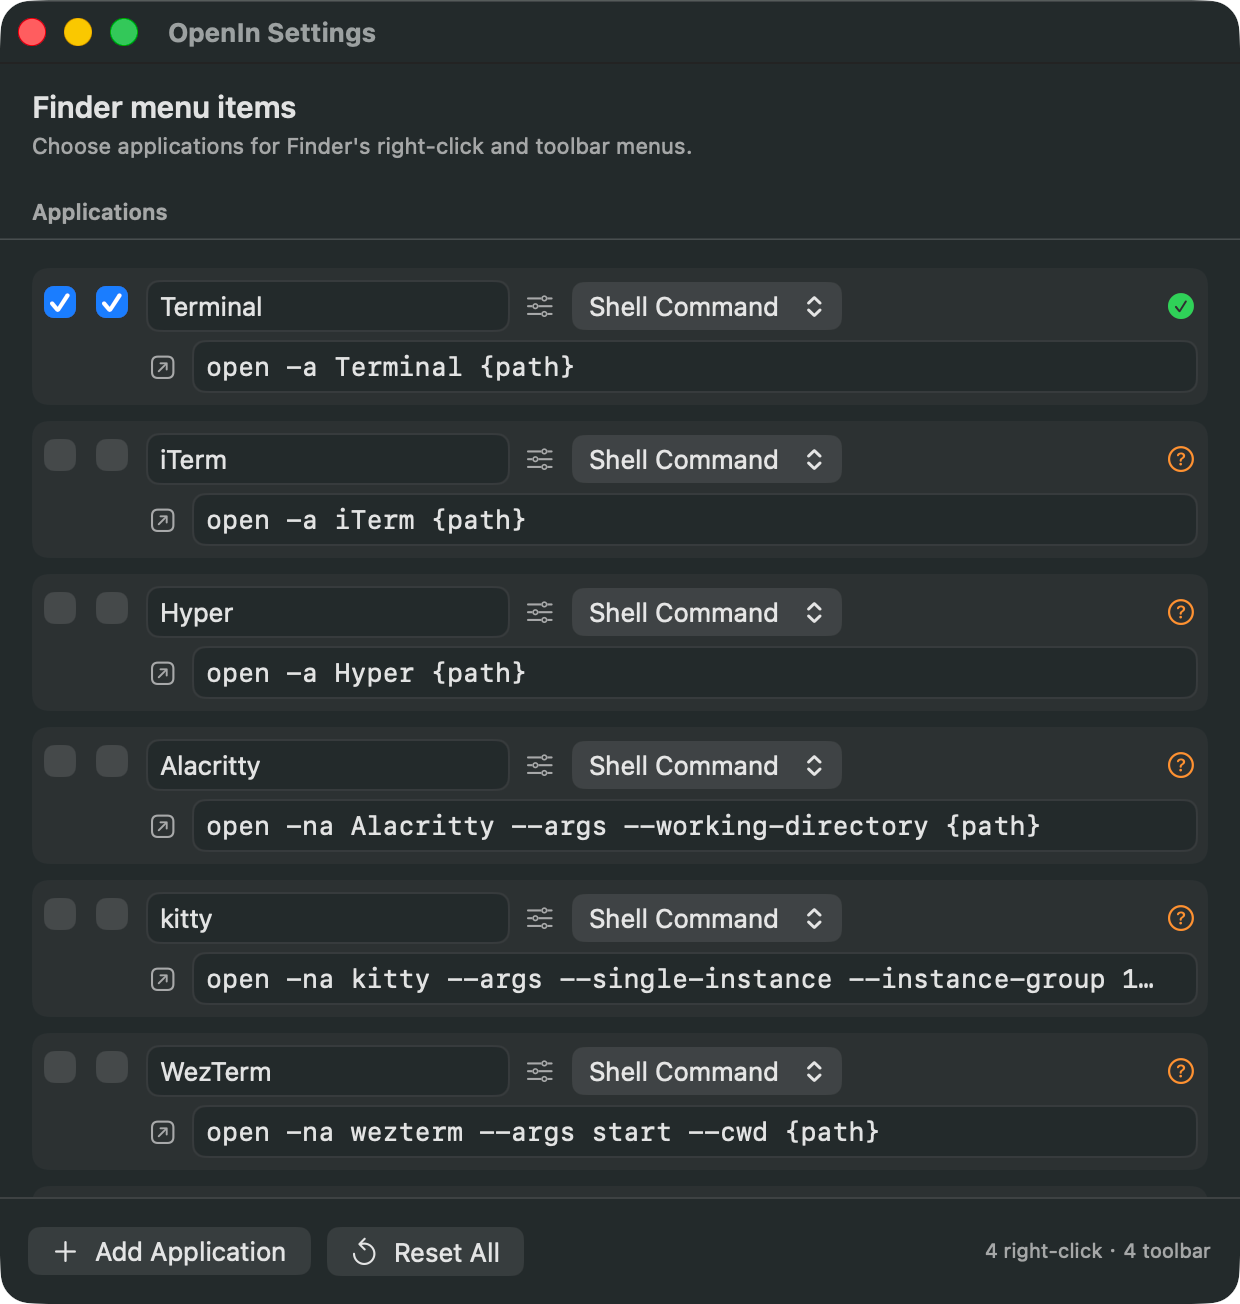
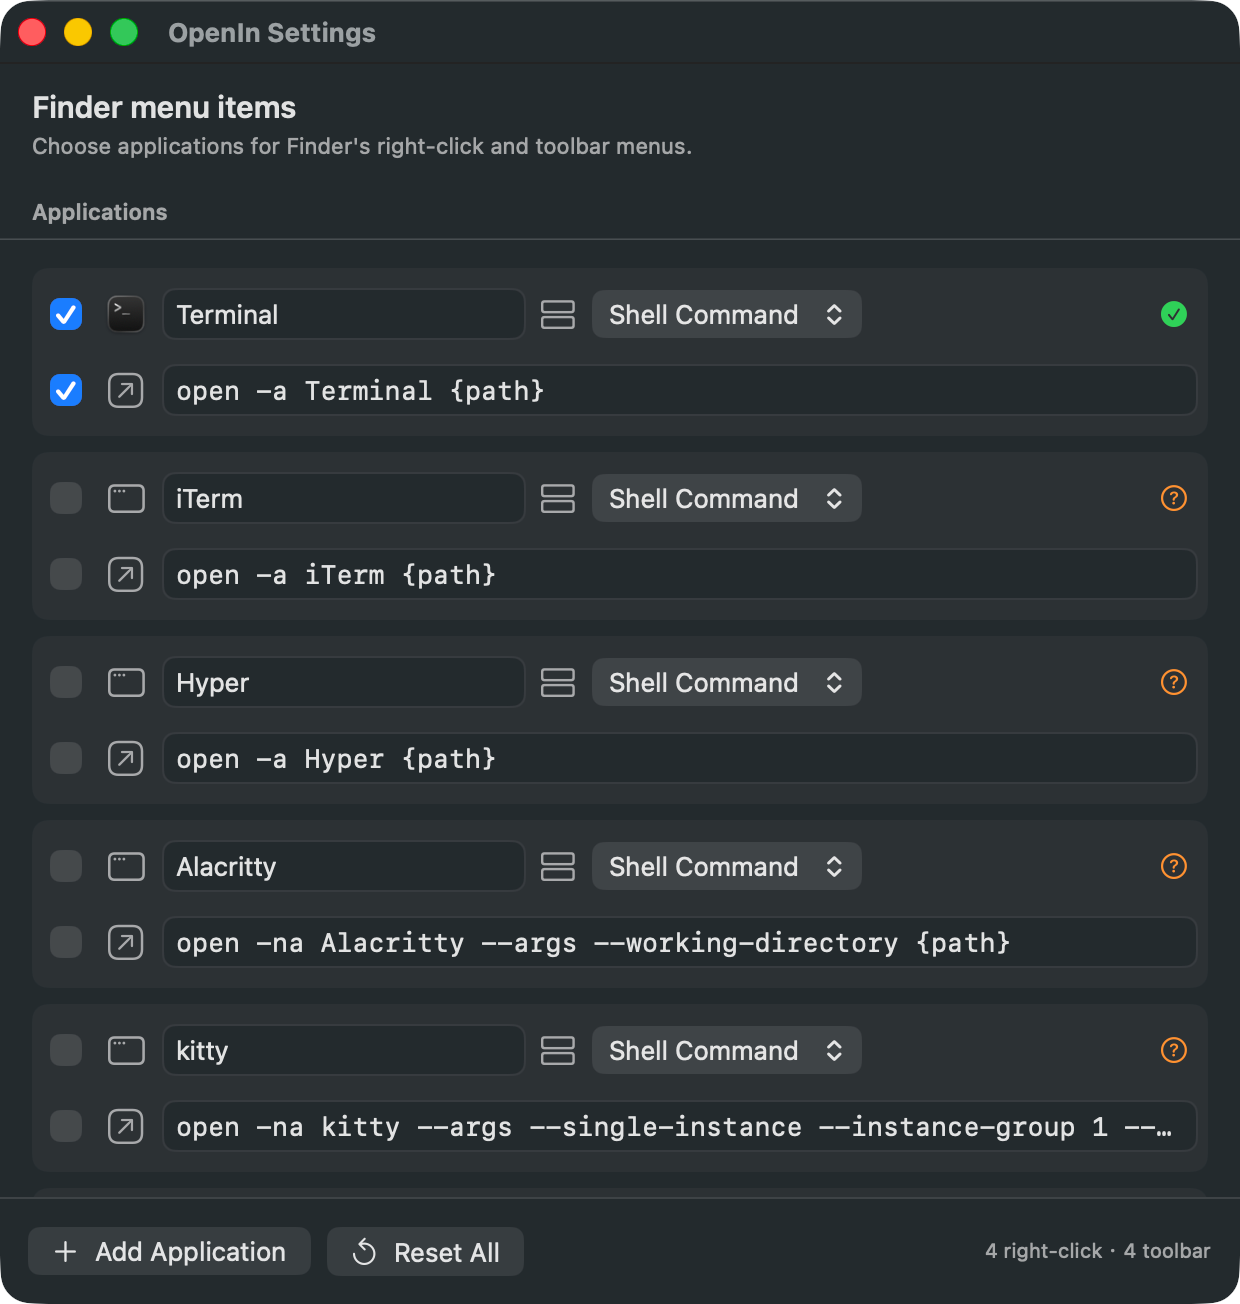
更新 Info.plist 中的图标文件和版本号，优化 SettingsView 组件的布局和功能，添加应用程序图标显示

diff --git a/OpenIn/SettingsView.swift b/OpenIn/SettingsView.swift
@@ -1,3 +1,4 @@
+import AppKit
 import SwiftUI
 
 private struct HiddenRowSeparator: ViewModifier {
@@ -155,92 +156,100 @@ struct MenuItemRow: View {
     }
 
     var body: some View {
-        HStack(alignment: .top, spacing: 10) {
-            Toggle("", isOn: Binding(
-                get: { item.showInContextMenu },
-                set: { value in
-                    var updated = item
-                    updated.showInContextMenu = value
-                    onUpdate(updated)
-                }
-            ))
-            .toggleStyle(.checkbox)
-            .labelsHidden()
-            .padding(.top, 2)
-            .help("Show in Finder right-click menu")
-
-            Toggle("", isOn: Binding(
-                get: { item.showInToolbarMenu },
-                set: { value in
-                    var updated = item
-                    updated.showInToolbarMenu = value
-                    onUpdate(updated)
-                }
-            ))
-            .toggleStyle(.checkbox)
-            .labelsHidden()
-            .padding(.top, 2)
-            .help("Show in Finder toolbar menu")
-
-            VStack(alignment: .leading, spacing: 6) {
-                HStack(alignment: .center, spacing: 8) {
-                    TextField("Display name", text: $name)
-                        .textFieldStyle(.roundedBorder)
-                        .frame(width: 180)
-
-                    Image(systemName: "slider.horizontal.3")
-                        .foregroundStyle(.secondary)
-                        .help("Type")
-                        .accessibilityLabel("Type")
-                    Picker("", selection: $actionType) {
-                        ForEach(MenuItemActionType.allCases, id: \.self) {
-                            Text($0.rawValue).tag($0)
-                        }
+        VStack(alignment: .leading, spacing: 6) {
+            HStack(alignment: .center, spacing: 8) {
+                Toggle("", isOn: Binding(
+                    get: { item.showInContextMenu },
+                    set: { value in
+                        var updated = item
+                        updated.showInContextMenu = value
+                        onUpdate(updated)
                     }
-                    .labelsHidden()
-                    .frame(width: 135)
+                ))
+                .toggleStyle(.checkbox)
+                .labelsHidden()
+                .frame(width: 22, height: 32)
+                .help("Show in Finder right-click menu")
 
-                    Spacer()
-                    if item.isBuiltInApplication {
-                        Image(systemName: found ? "checkmark.circle.fill" : "questionmark.circle")
-                            .foregroundStyle(found ? .green : .orange)
-                            .help(found ? "Found" : "Not found")
-                            .accessibilityLabel(found ? "Found" : "Not found")
+                applicationIcon
+                TextField("Display name", text: $name)
+                    .textFieldStyle(.roundedBorder)
+                    .frame(width: 180)
+
+                Image(systemName: "rectangle.grid.1x2")
+                    .font(.system(size: 16))
+                    .frame(width: 18)
+                    .foregroundStyle(.secondary)
+                    .help("Type")
+                    .accessibilityLabel("Type")
+                Picker("", selection: $actionType) {
+                    ForEach(MenuItemActionType.allCases, id: \.self) {
+                        Text($0.rawValue).tag($0)
                     }
-                    if item.isBuiltInApplication {
-                        if !item.isDefaultBuiltIn {
-                            Button {
-                                onReset(item)
-                            } label: {
-                                Image(systemName: "arrow.counterclockwise")
-                            }
-                            .buttonStyle(.borderless)
-                            .help("Reset to default")
-                            .accessibilityLabel("Reset to default")
-                        }
-                    } else {
+                }
+                .labelsHidden()
+                .frame(width: 135)
+
+                Spacer()
+                if item.isBuiltInApplication {
+                    Label(
+                        found ? "Found" : "Not installed or not found",
+                        systemImage: found ? "checkmark.circle.fill" : "questionmark.circle"
+                    )
+                        .labelStyle(.iconOnly)
+                        .foregroundStyle(found ? .green : .orange)
+                        .frame(width: 22, height: 22)
+                        .contentShape(Rectangle())
+                        .accessibilityLabel(found ? "Found" : "Not installed or not found")
+                }
+                if item.isBuiltInApplication {
+                    if !item.isDefaultBuiltIn {
                         Button {
-                            onDelete(item)
+                            onReset(item)
                         } label: {
-                            Image(systemName: "trash")
-                                .foregroundStyle(.red)
+                            Image(systemName: "arrow.counterclockwise")
                         }
                         .buttonStyle(.borderless)
+                        .help("Reset to default")
+                        .accessibilityLabel("Reset to default")
                     }
+                } else {
+                    Button {
+                        onDelete(item)
+                    } label: {
+                        Image(systemName: "trash")
+                            .foregroundStyle(.red)
+                    }
+                    .buttonStyle(.borderless)
                 }
+            }
 
-                HStack(spacing: 8) {
-                    Image(systemName: "arrow.up.forward.app")
-                        .foregroundStyle(.secondary)
-                        .help("Launch")
-                        .accessibilityLabel("Launch")
-                    TextField(
-                        actionType == .urlScheme ? "myapp://open?path={path}" : "open -a Terminal {path}",
-                        text: $template
-                    )
-                    .textFieldStyle(.roundedBorder)
-                    .font(.system(.body, design: .monospaced))
-                }
+            HStack(alignment: .center, spacing: 8) {
+                Toggle("", isOn: Binding(
+                    get: { item.showInToolbarMenu },
+                    set: { value in
+                        var updated = item
+                        updated.showInToolbarMenu = value
+                        onUpdate(updated)
+                    }
+                ))
+                .toggleStyle(.checkbox)
+                .labelsHidden()
+                .frame(width: 22, height: 32)
+                .help("Show in Finder toolbar menu")
+
+                Image(systemName: "arrow.up.forward.app")
+                    .font(.system(size: 20, weight: .light))
+                    .frame(width: 22, height: 22)
+                    .foregroundStyle(.secondary)
+                    .help("Launch")
+                    .accessibilityLabel("Launch")
+                TextField(
+                    actionType == .urlScheme ? "myapp://open?path={path}" : "open -a Terminal {path}",
+                    text: $template
+                )
+                .textFieldStyle(.roundedBorder)
+                .font(.system(.body, design: .monospaced))
             }
         }
         .padding(.vertical, 7)
@@ -258,6 +267,41 @@ struct MenuItemRow: View {
             actionType = updated.actionType
             template = updated.template
         }
+    }
+
+    @ViewBuilder
+    private var applicationIcon: some View {
+        Group {
+            if let path = applicationIconPath {
+                Image(nsImage: NSWorkspace.shared.icon(forFile: path))
+                    .resizable()
+                    .aspectRatio(contentMode: .fit)
+            } else {
+                Image(systemName: "macwindow")
+                    .font(.system(size: 16))
+                    .foregroundStyle(.secondary)
+            }
+        }
+        .frame(width: 22, height: 22)
+        .help("Application")
+    }
+
+    private var applicationIconPath: String? {
+        guard let builtIn = BuiltInApp.find(item.applicationID) else { return nil }
+        if let bundleIdentifier = builtIn.bundleIdentifier,
+           let url = NSWorkspace.shared.urlForApplication(withBundleIdentifier: bundleIdentifier) {
+            return url.path
+        }
+
+        guard let installationPath = builtIn.installationPath else { return nil }
+        var url = URL(fileURLWithPath: installationPath)
+        while url.path != "/" {
+            if url.pathExtension == "app" {
+                return url.path
+            }
+            url.deleteLastPathComponent()
+        }
+        return nil
     }
 
     private func commit() {
